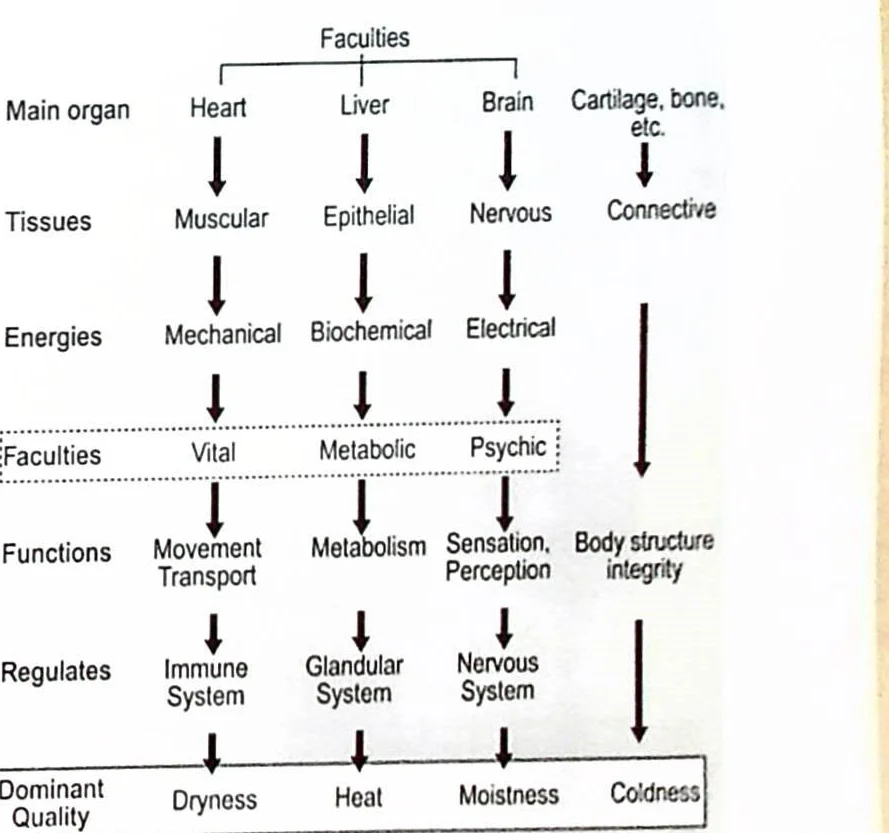
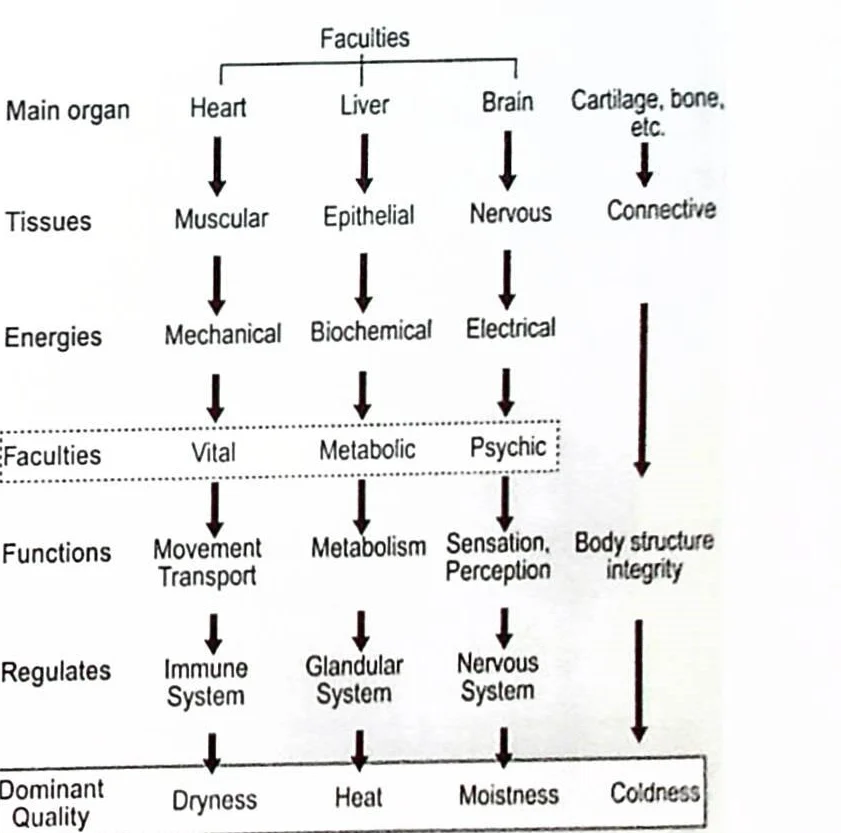
Changes

diff --git a/public/powers/index.html b/public/powers/index.html
@@ -47,7 +47,7 @@
       <p>By referring the previous three organ theory of heart-liver-brain (in The Organs' chapter), the vital power is based on heart, uses mechanical energy for functions, controls movement of muscular tissue, regulate transportation and immune system. It has dryness as temperamental quality. The metabolic power is based on the liver organ, uses biochemical energy, controls epithelial tissue, metabolism is its specific action but also regulates the glandular system. It has dominant heat as temperamental quality. Then the psychic power, based on brain, uses electrical energy, controls and regulates the nervous tissue and its specific action is sensation and perception. It has moistness as temperamental quality.</p>
     </div>
     <figure class="fig">
-      <img src="assets/fig-6-1-relationship-organs-tissues-energies.webp" width="889" height="833" alt="Flow chart: Faculties — main organ (Heart, Liver, Brain, Cartilage, bone, etc.), tissues, energies, faculties (Vital, Metabolic, Psychic), functions, regulates and dominant quality (Dryness, Heat, Moistness, Coldness)." fetchpriority="high">
+      <img src="assets/fig-6-1-relationship-organs-tissues-energies.webp" width="841" height="833" alt="Flow chart: Faculties — main organ (Heart, Liver, Brain, Cartilage, bone, etc.), tissues, energies, faculties (Vital, Metabolic, Psychic), functions, regulates and dominant quality (Dryness, Heat, Moistness, Coldness)." fetchpriority="high">
       <figcaption>Fig. 6.1 Relationship between the main organs, tissues, energies, faculties, functions and qualities</figcaption>
     </figure>
   </div>

diff --git a/public/powers/style.css b/public/powers/style.css
@@ -61,7 +61,7 @@ figcaption{margin-top:.8rem;padding-top:.6rem;border-top:1px solid var(--line);f
 .to-top:hover,.to-top:focus-visible{background:var(--gold);color:var(--forest)}
 a:focus-visible,button:focus-visible{outline:2px solid var(--gold);outline-offset:3px}
 
-@media (max-width:1000px){
+@media (max-width:1200px){
   .menu-btn{display:block}
   .toc{display:none;position:absolute;left:0;right:0;top:100%;background:var(--forest);flex-direction:column;padding:.5rem 1.5rem 1rem;border-bottom:2px solid var(--gold)}
   .toc.open{display:flex}
